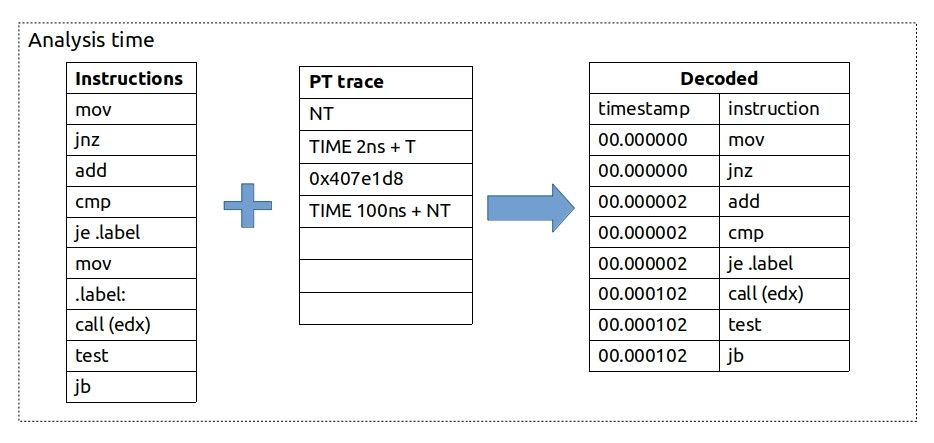
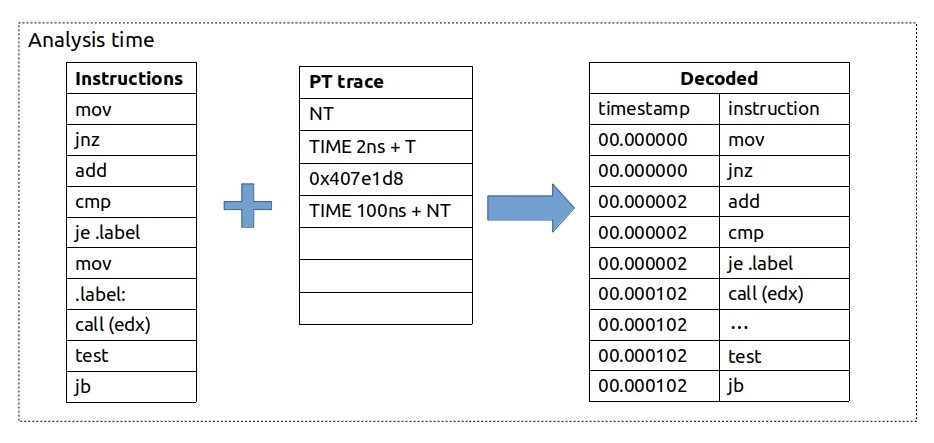
[Final touches] Appendix

Changed region(s): [[0.621, 0.7923, 0.9004, 0.9097], [0.7762, 0.7043, 0.8073, 0.763]]

diff --git a/chapters/18-Appendix/Appendix-C.md b/chapters/18-Appendix/Appendix-C.md
@@ -7,7 +7,7 @@ The Intel Processor Traces (PT) is a CPU feature that records the program execut
 
 ## Workflow {.unnumbered .unlisted}
 
-Similar to sampling techniques, PT does not require any modifications to the source code. All you need to collect traces is just to run the program under the tool that supports PT. Once PT is enabled and the benchmark launches, the analysis tool starts writing tracing packets to DRAM. 
+Similar to sampling techniques, PT does not require any modifications to the source code. All you need to collect traces is just to run the program under the tool that supports PT. Once PT is enabled and the benchmark launches, the analysis tool starts writing tracing PT packets to DRAM. 
 
 Similar to LBR (Last Branch Records), Intel PT works by recording branches. At runtime, whenever a CPU encounters any branch instruction, PT will record the outcome of this branch. For a simple conditional jump instruction, a CPU will record whether it was taken (`T`) or not taken (`NT`) using just 1 bit. For an indirect call, PT will record the destination address. Note that unconditional branches are ignored since we statically know their targets. 
 
@@ -15,13 +15,17 @@ An example of encoding for a small instruction sequence is shown in Figure @fig:
 
 ![Intel Processor Traces encoding](../../img/appendix-D/PT_encoding.jpg){#fig:PT_encoding width=80%}
 
-At the time of analysis, we bring together the application binary and the collected PT trace. A software decoder needs the application binary file to reconstruct the execution flow of the program. It starts from the entry point and then uses collected traces as a lookup reference to determine the control flow. Figure @fig:PT_decoding shows an example of decoding Intel Processor Traces. Suppose that the `PUSH` instruction is an entry point of the application binary file. Then `PUSH`, `MOV`, `ADD`, and `CMP` are reconstructed as-is without looking into encoded traces. Later, the software decoder encounters a `JE` instruction, which is a conditional branch and for which we need to look up the outcome. According to the traces in Figure @fig:PT_decoding, `JE` was taken (`T`), so we skip the next `MOV` instruction and go to the `CALL` instruction. Again, `CALL(edx)` is an instruction that changes the control flow, so we look up the destination address in encoded traces, which is `0x407e1d8`. Instructions highlighted in yellow were executed when our program was running. Note that this is an *exact* reconstruction of program execution; we did not skip any instructions. Later we can map assembly instructions back to the source code by using debug information and have a log of source code that was executed line by line.
+At the time of analysis, we bring together the application binary and the collected PT trace. A software decoder needs the application binary file to reconstruct the execution flow of the program. It starts from the entry point and then uses collected traces as a lookup reference to determine the control flow. 
+
+Figure @fig:PT_decoding shows an example of decoding Intel Processor Traces. Suppose that the `PUSH` instruction is an entry point of the application binary file. Then `PUSH`, `MOV`, `ADD`, and `CMP` are reconstructed as-is without looking into encoded traces. Later, the software decoder encounters a `JE` instruction, which is a conditional branch and for which we need to look up the outcome. According to the traces in Figure @fig:PT_decoding, `JE` was taken (`T`), so we skip the next `MOV` instruction and go to the `CALL` instruction. Again, `CALL(edx)` is an instruction that changes the control flow, so we look up the destination address in encoded traces, which is `0x407e1d8`. 
 
 ![Intel Processor Traces decoding](../../img/appendix-D/PT_decoding.jpg){#fig:PT_decoding width=90%}
 
+Instructions highlighted in yellow were executed when our program was running. Note that this is an *exact* reconstruction of program execution; we did not skip any instructions. Later we can map assembly instructions back to the source code by using debug information and have a log of source code that was executed line by line.
+
 ## Timing Packets {.unnumbered .unlisted}
 
-With Intel PT, not only execution flow can be traced but also timing information. In addition to saving jump destinations, PT can also emit timing packets. Figure @fig:PT_timings provides a visualization of how time packets can be used to restore timestamps for instructions. As in the previous example, we first see that `JNZ` was not taken, so we update it and all the instructions above with timestamp 0ns. Then we see a timing update of 2ns and `JE` being taken, so we update it and all the instructions above `JE` (and below `JNZ`) with timestamp 2ns. After that, there is an indirect call, but no timing packet is attached to it, so we do not update timestamps. Then we see that 100ns elapsed, and `JB` was not taken, so we update all the instructions above it with the timestamp of 102ns.
+With Intel PT, not only execution flow can be traced but also timing information. In addition to saving jump destinations, PT can also emit timing packets. Figure @fig:PT_timings provides a visualization of how time packets can be used to restore timestamps for instructions. As in the previous example, we first see that `JNZ` was not taken (`NT`), so we update it and all the instructions above with timestamp 0ns. Then we see a timing update of 2ns and `JE` being taken, so we update it and all the instructions above `JE` (and below `JNZ`) with timestamp 2ns. After that, there is an indirect call (`CALL(edx)`), but no timing packet is attached to it, so we do not update timestamps. Then we see that 100ns elapsed, and `JB` was not taken, so we update all the instructions above it with the timestamp of 102ns.
 
 ![Intel Processor Traces timings](../../img/appendix-D/PT_timings.jpg){#fig:PT_timings width=90%}
 
@@ -35,7 +39,7 @@ Intel PT traces can be easily collected with the Linux `perf` tool:
 $ perf record -e intel_pt/cyc=1/u -- ./a.out
 ```
 
-In the command line above, we asked the PT mechanism to update timing information every cycle. But likely, it will not increase our accuracy greatly since timing packets will only be sent when paired with another control flow packet.
+In the command line above, I asked the PT mechanism to update timing information every cycle. But likely, it will not increase our accuracy greatly since timing packets will only be sent when paired with another control flow packet.
 
 After collecting, raw PT traces can be obtained by executing:
 
@@ -53,13 +57,13 @@ PT bundles up to 6 conditional branches before it emits a timing packet. Since t
 000073b9: b6        TNT NTTNTT (6)
 ```
 
-Above we showed the raw PT packets, which are not very useful for performance analysis. To decode processor traces to human-readable form, one can execute:
+The raw PT packets shown above are not very useful for performance analysis. To decode processor traces to human-readable form, you can execute:
 
 ```bash
 $ perf script --ns --itrace=i1t -F time,srcline,insn,srccode
 ```
 
-Below is an example of decoded traces one might get:
+Below is an example of decoded traces:
 
 ```
 timestamp       srcline   instruction      srccode
@@ -71,7 +75,7 @@ timestamp       srcline   instruction      srccode
 ...
 ```
 
-Above is shown just a small snippet from the long execution log. In this log, we have traces of *every* instruction executed while our program was running. We can literally observe every step that was made by the program. It is a very strong foundation for further functional and performance analysis.
+I only show a small snippet from the long execution log. In this log, we have traces of *every* instruction executed while our program was running. We can literally observe every step that was made by the program. It is a very strong foundation for further functional and performance analysis.
 
 ## Use Cases {.unnumbered .unlisted}
 
@@ -84,7 +88,7 @@ Above is shown just a small snippet from the long execution log. In this log, we
 
 ## Disk Space and Decoding Time {.unnumbered .unlisted}
 
-Even taking into account the compressed format of the traces, encoded data can consume a lot of disk space. Typically, it's less than 1 byte per instruction, however taking into account the speed at which CPU executes instructions, it is still a lot. Depending on the workload, it's very common for the CPU to encode PT at a speed of 100 MB/s. Decoded traces might easily be ten times more (~1GB/s). This makes PT not practical for use on long-running workloads. But it is affordable to run it for a short time, even on a big workload. In this case, the user can attach to the running process just for the time when the glitch happened. Or they can use a circular buffer, where new traces will overwrite old ones, i.e., always having traces for the last 10 seconds or so.
+Even taking into account the compressed format of the trace, encoded data can consume a lot of disk space. Typically, it's less than 1 byte per instruction, however taking into account the speed at which CPU executes instructions, it is still a lot. Depending on the workload, it's very common for the CPU to encode PT at a speed of 100 MB/s. Decoded traces might easily be ten times more (~1GB/s). This makes PT not practical for use on long-running workloads. But it is affordable to run it for a short time, even on a big workload. In this case, the user can attach to the running process just for the time when the glitch happened. Or they can use a circular buffer, where new traces will overwrite old ones, i.e., always having traces for the last 10 seconds or so.
 
 Users can limit collection even further in several ways. They can limit collecting traces only on user/kernel space code. Also, there is an address range filter, so it's possible to opt in and opt out of tracing dynamically to limit the memory bandwidth. This allows us to trace just a single function or even a single loop.
 
@@ -108,3 +112,4 @@ Besides Linux perf, several other tools support Intel PT. First, Intel VTune Pro
 [^3]: Postmortem debugging with Intel PT - [https://easyperf.net/blog/2019/08/30/Intel-PT-part2](https://easyperf.net/blog/2019/08/30/Intel-PT-part2)
 [^4]: When you decode traces with `perf script -F` with `+srcline` or `+srccode` to emit source code, it gets even slower.
 [^5]: magic-trace - [https://github.com/janestreet/magic-trace](https://github.com/janestreet/magic-trace)
+[^6]: Notice that there are some instructions executed as a result of the function call (denoted with `...`).

diff --git a/chapters/18-Appendix/Appendix-A.md b/chapters/18-Appendix/Appendix-A.md
@@ -3,13 +3,15 @@
 
 \markboth{Appendix A}{Appendix A}
 
-Below are some examples of features that can contribute to increased non-determinism in performance measurements. See the complete discussion in [@sec:secFairExperiments].
+Below are some examples of features that can contribute to increased non-determinism in performance measurements and a few techniques to reduce noise. I provided introduction to the topic in [@sec:secFairExperiments].
+
+This section is mostly specific to the Linux operating system. Readers are encouraged to search the web for instructions on how to configure other operating systems.
 
 ## Dynamic Frequency Scaling {.unnumbered .unlisted}
 
-[Dynamic Frequency Scaling](https://en.wikipedia.org/wiki/Dynamic_frequency_scaling)[^11] (DFS) is a technique to increase the performance of the system by automatically raising CPU operating frequency when it runs demanding tasks. As an example of DFS implementation, Intel CPUs have a feature called [Turbo Boost](https://en.wikipedia.org/wiki/Intel_Turbo_Boost)[^1], and AMD CPUs employ [Turbo Core](https://en.wikipedia.org/wiki/AMD_Turbo_Core)[^2]functionality. 
+[Dynamic Frequency Scaling](https://en.wikipedia.org/wiki/Dynamic_frequency_scaling)[^11] (DFS) is a technique to increase the performance of a system by automatically raising CPU operating frequency when it runs demanding tasks. As an example of DFS implementation, Intel CPUs have a feature called Turbo Boost, and AMD CPUs employ Turbo Core functionality. 
 
-Example of an impact Turbo Boost can make for a single-threaded workload running on Intel® Core™ i5-8259U:
+Here is an example of an impact Turbo Boost can make for a single-threaded workload running on Intel® Core™ i5-8259U:
 
 ```bash
 # TurboBoost enabled
@@ -29,9 +31,9 @@ $ perf stat -e task-clock,cycles -- ./a.exe
       13.142983989 seconds time elapsed
 ```
 
-The average frequency is much higher when Turbo Boost is on.
+The average frequency is higher when Turbo Boost is on (2.7 GHz vs. 2.3 GHz).
 
-DFS can be permanently disabled in BIOS.[^3] To programmatically disable the DFS feature on Linux systems, you need root access. Here is how one can achieve this:
+DFS can be permanently disabled in BIOS. To programmatically disable the DFS feature on Linux systems, you need root access. Here is how one can achieve this:
 
 ```bash
 # Intel
@@ -41,9 +43,7 @@ echo 0 > /sys/devices/system/cpu/cpufreq/boost
 ```
 ## Simultaneous Multithreading {.unnumbered .unlisted}
 
-Modern CPU cores are often made in the simultaneous multithreading ([SMT](https://en.wikipedia.org/wiki/Simultaneous_multithreading)[^4]) manner. It means that in one physical core, you can have two threads of simultaneous execution. Typically, [architectural state](https://en.wikipedia.org/wiki/Architectural_state)[^5] is replicated, but the execution resources (ALUs, caches, etc.) are not. That means that if we have two separate processes running on the same core "simultaneously" (in different threads), they can steal resources from each other, for example, cache space.
-
-SMT can be permanently disabled in BIOS.[^6] To programmatically disable SMT on Linux systems, you need root access. Here is how one can turn down a sibling thread in each core:
+Many modern CPU cores support simultaneous multithreading (see [@sec:SMT]). SMT can be permanently disabled in BIOS. To programmatically disable SMT on Linux systems, you need root access. Here is how one can turn down a sibling thread in each core:
 
 ```bash
 echo 0 > /sys/devices/system/cpu/cpuX/online
@@ -84,15 +84,14 @@ $ cat /sys/devices/system/cpu/cpu0/topology/thread_siblings_list
 0
 ```
 
+Also, the `lscpu --all --extended` command can be very helpful to see the sibling threads.
+
 ## Scaling Governor {.unnumbered .unlisted}
 
-Linux kernel can control CPU frequency for different purposes. One such purpose is to save power, in which case the scaling governor[^7] inside the Linux Kernel can decide to decrease CPU operating frequency. For performance measurements, it is recommended to set the scaling governor policy to `performance` to avoid sub-nominal clocking. Here is how we can set it for all the cores:
+Linux kernel can control CPU frequency for different purposes. One such purpose is to save power. In this case the scaling governor may decide to decrease the CPU frequency. For performance measurements, it is recommended to set the scaling governor policy to `performance` to avoid sub-nominal clocking. Here is how we can set it for all the cores:
 
 ```bash
-for i in /sys/devices/system/cpu/cpu*/cpufreq/scaling_governor
-do
-  echo performance > $i
-done
+echo performance | sudo tee /sys/devices/system/cpu/cpufreq/policy*/scaling_governor
 ```
 
 ## CPU Affinity {.unnumbered .unlisted}
@@ -123,46 +122,31 @@ The command below will run the command after `--` in the isolated CPUs:
 $ cset shield --exec -- perf stat -r 10 <cmd>
 ```
 
+On Windows, a program can be pinned to a specific core using the following command:
+
+```bash
+$ start /wait /b /affinity 0xC0 myapp.exe
+```
+
+where the `/wait` option waits for the application to terminate, `/b` starts the application without opening a new command window, and `/affinity` specifies the CPU affinity mask. In this case, the mask `0xC0` means that the application will run on cores 6 and 7.
+
+On macOS, it is not possible to pin threads to cores since the operating system does not provide an API for that.
+
 ## Process Priority {.unnumbered .unlisted}
 
-In Linux, one can increase process priority using the `nice` tool. By increasing the priority process gets more CPU time, and the Linux scheduler favors it more in comparison with processes with normal priority. Niceness ranges from `-20` (highest priority value) to `19` (lowest priority value) with the default of `0`.
+In Linux, you can increase process priority using the `nice` tool. By increasing priority the process gets more CPU time, and the scheduler favors it more in comparison with processes with normal priority. Niceness ranges from `-20` (highest priority value) to `19` (lowest priority value) with the default of `0`.
 
-Notice in the previous example, that the execution of the benchmarked process was interrupted by the OS more than 100 times. If we increase process priority by running the benchmark with `sudo nice -n -N`:
+Notice in the previous example, that the execution of the benchmarked process was interrupted by the OS more than 100 times. If we increase process priority by running the benchmark with `sudo nice -n -<N>`:
+
 ```bash
 $ perf stat -r 10 -- sudo nice -n -5 taskset -c 1 a.exe
     0   context-switches
     0   cpu-migrations
 ```
+
 Notice the number of context switches gets to `0`, so the process received all the computation time uninterrupted.
 
-## Filesystem Cache {.unnumbered .unlisted}
-
-Usually, an area of main memory is assigned to cache the file system contents, including various data. This reduces the need for an application to go all the way down to the disk. Here is an example of how the file system cache can affect the running time of a simple `git status` command:
-
-```bash
-# clean fs cache
-$ echo 3 | sudo tee /proc/sys/vm/drop_caches && sync && time -p git status
-real 2,57
-# warmed fs cache
-$ time -p git status
-real 0,40
-```
-
-One can drop the current filesystem cache by running the following two commands:
-
-```bash
-$ echo 3 | sudo tee /proc/sys/vm/drop_caches
-$ sync
-```
-
-Alternatively, you can make one dry run just to warm up the filesystem cache and exclude it from the measurements. This dry iteration can be combined with the validation of the benchmark output.
-
-[^1]: Intel Turbo Boost - [https://en.wikipedia.org/wiki/Intel_Turbo_Boost](https://en.wikipedia.org/wiki/Intel_Turbo_Boost).
-[^2]: AMD Turbo Core - [https://en.wikipedia.org/wiki/AMD_Turbo_Core](https://en.wikipedia.org/wiki/AMD_Turbo_Core).
-[^3]: Intel Turbo Boost FAQ - [https://www.intel.com/content/www/us/en/support/articles/000007359/processors/intel-core-processors.html](https://www.intel.com/content/www/us/en/support/articles/000007359/processors/intel-core-processors.html).
 [^4]: SMT - [https://en.wikipedia.org/wiki/Simultaneous_multithreading](https://en.wikipedia.org/wiki/Simultaneous_multithreading).
-[^5]: Architectural state - [https://en.wikipedia.org/wiki/Architectural_state](https://en.wikipedia.org/wiki/Architectural_state).
-[^6]: "How to disable hyperthreading" - [https://www.pcmag.com/article/314585/how-to-disable-hyperthreading](https://www.pcmag.com/article/314585/how-to-disable-hyperthreading).
 [^7]: Documentation for Linux CPU frequency governors: [https://www.kernel.org/doc/Documentation/cpu-freq/governors.txt](https://www.kernel.org/doc/Documentation/cpu-freq/governors.txt).
 [^8]: Processor affinity - [https://en.wikipedia.org/wiki/Processor_affinity](https://en.wikipedia.org/wiki/Processor_affinity).
 [^9]: `taskset` manual - [https://linux.die.net/man/1/taskset](https://linux.die.net/man/1/taskset).

diff --git a/chapters/18-Appendix/Appendix-B.md b/chapters/18-Appendix/Appendix-B.md
@@ -5,7 +5,7 @@
 
 ## Windows {.unnumbered}
 
-To utilize huge pages on Windows, one needs to enable `SeLockMemoryPrivilege` [security policy](https://docs.microsoft.com/en-us/windows/security/threat-protection/security-policy-settings/lock-pages-in-memory). This can be done programmatically via the Windows API, or alternatively via the security policy GUI.
+To utilize huge pages on Windows, you need to enable `SeLockMemoryPrivilege` [security policy](https://docs.microsoft.com/en-us/windows/security/threat-protection/security-policy-settings/lock-pages-in-memory). This can be done programmatically via the Windows API, or alternatively via the security policy GUI.
 
 1. Hit start &rarr; search "secpol.msc", and launch it.
 2. On the left select "Local Policies" &rarr; "User Rights Assignment", then double-click on "Lock pages in memory".
@@ -39,21 +39,10 @@ Explicit huge pages can be reserved at system boot time or before an application
 $ echo "vm.nr_hugepages = 128" >> /etc/sysctl.conf
 ```
 
-To explicitly allocate a fixed number of huge pages after the system has booted, one can use [libhugetlbfs](https://github.com/libhugetlbfs/libhugetlbfs). The following command preallocates 128 huge pages.
-
-```bash
-$ sudo apt install libhugetlbfs-bin
-$ sudo hugeadm --create-global-mounts
-$ sudo hugeadm --pool-pages-min 2M:128
-```
-
-This is roughly the equivalent of executing the following commands which do not require `libhugetlbfs` (see the [kernel docs](https://www.kernel.org/doc/Documentation/vm/hugetlbpage.txt)):
+To explicitly allocate 128 huge pages after the system has booted, you can use the following command:
 
 ```bash
 $ echo 128 > /proc/sys/vm/nr_hugepages
-$ mount -t hugetlbfs                                                      \
-    -o uid=<value>,gid=<value>,mode=<value>,pagesize=<value>,size=<value>,\
-    min_size=<value>,nr_inodes=<value> none /mnt/huge
 ```
 
 You should be able to observe the effect in `/proc/meminfo`. Note that it is a system-wide view and not per-process:
@@ -71,7 +60,7 @@ Hugepagesize:       2048 kB
 Hugetlb:          262144 kB <== 256MB of space occupied
 ```
 
-Developers can utilize explicit huge pages in the code by calling `mmap` with the `MAP_HUGETLB` flag ([full example](https://github.com/torvalds/linux/blob/master/tools/testing/selftests/vm/map_hugetlb.c)[^25]):
+You can utilize explicit huge pages in the code by calling `mmap` with the `MAP_HUGETLB` flag ([full example](https://github.com/torvalds/linux/blob/master/tools/testing/selftests/vm/map_hugetlb.c)[^25]):
 
 ```cpp
 void ptr = mmap(nullptr, size, PROT_READ | PROT_WRITE,
@@ -87,7 +76,7 @@ Other alternatives include:
 
 ### Transparent Huge Pages {.unnumbered .unlisted}
 
-To allow applications to use Transparent Huge Pages (THP) on Linux one should ensure that `/sys/kernel/mm/transparent_hugepage/enabled` is `always` or `madvise`. The former enables system-wide usage of THPs, while the latter gives control to the user code on which memory regions should use THPs, thus avoiding the risk of consuming more memory resources. Below is an example of using the `madvise` approach:
+To allow applications to use Transparent Huge Pages (THP) on Linux you should ensure that `/sys/kernel/mm/transparent_hugepage/enabled` is `always` or `madvise`. The former enables system-wide usage of THPs, while the latter gives control to the user code on which memory regions should use THPs, thus avoiding the risk of consuming more memory resources. Below is an example of using the `madvise` approach:
 
 ```cpp
 void ptr = mmap(nullptr, size, PROT_READ | PROT_WRITE | PROT_EXEC,
@@ -106,7 +95,7 @@ HugePages_Total:     128
 HugePages_Free:      128        <== explicit huge pages are not used
 ```
 
-Also, developers can observe how their application utilizes EHPs and/or THPs by looking at the `smaps` file specific to their process:
+Also, you can observe how your application utilizes EHPs and/or THPs by looking at the `smaps` file specific to your process:
 
 ```bash
 $ watch -n1 "cat /proc/<PID_OF_PROCESS>/smaps"

diff --git a/chapters/3-CPU-Microarchitecture/3-5 Exploiting TLP.md b/chapters/3-CPU-Microarchitecture/3-5 Exploiting TLP.md
@@ -12,7 +12,7 @@ It may sound very impressive, but we cannot add cores infinitely. First of all, 
 
 Cores in a multicore system are connected to each other and to shared resources, such as last-level cache and memory controllers. Such a communication channel is called an *interconnect*, which frequently has either a ring or a mesh topology. Another challenge for CPU designers is to keep the machine balanced as the core count grows. When you replicate cores, some resources remain shared, for example, memory buses and last-level cache. This results in diminishing returns to performance as cores are added, unless you also address the throughput of other shared resources, e.g., interconnect bandwidth, last-level cache size and bandwidth, and memory bandwidth. Shared resources frequently become the source of performance issues in a multicore system.
 
-### Simultaneous Multithreading
+### Simultaneous Multithreading {#sec:SMT}
 
 A more sophisticated approach to improve multithreaded performance is Simultaneous Multithreading (SMT). Very frequently people use the term *Hyperthreading* to describe the same thing. The goal of the technique is to fully utilize the available width of the CPU pipeline. SMT allows multiple software threads to run simultaneously on the same physical core using shared resources. More precisely, instructions from multiple software threads execute concurrently in the same cycle. Those don't have to be threads from the same process; they can be completely different programs that happened to be scheduled on the same physical core. 
 
